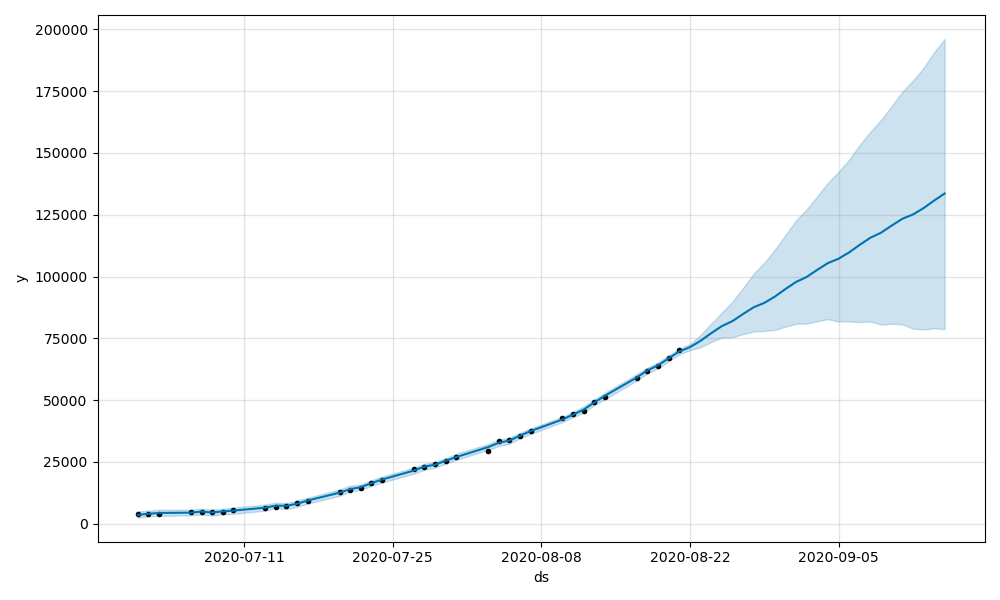
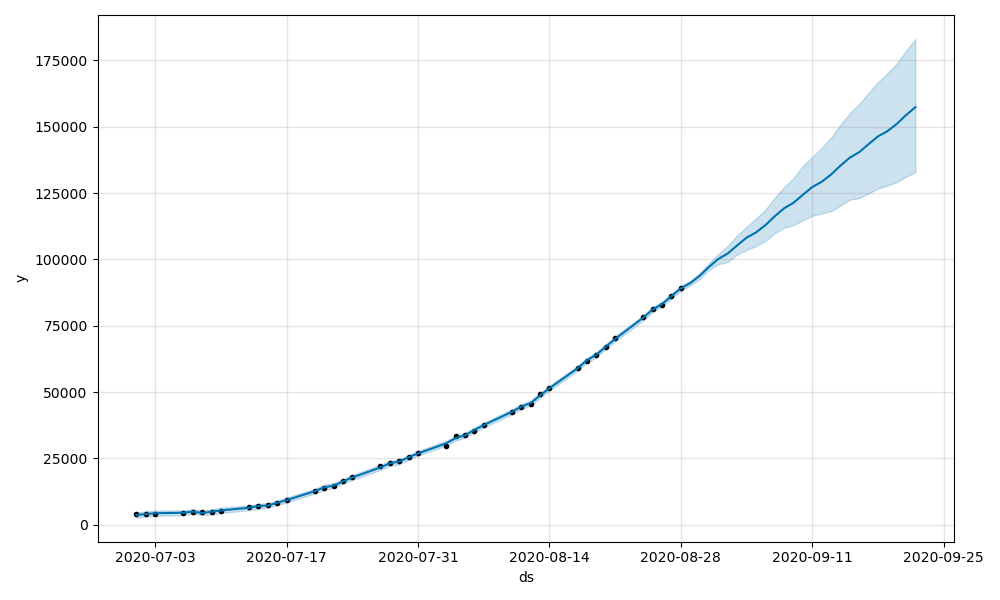
Updated to work with a new data source (only for Spain)

diff --git a/covid19.py b/covid19.py
@@ -10,66 +10,47 @@ import os
 register_matplotlib_converters()
 
 
-def get_data(csv_route, date_label='Date', country_label='Country', confirmed_label='Confirmed',
-             deaths_label='Deaths', recovered_label='Recovered', drop_first=0, drop_last=0, dayfirst=False,
-             sumcolumns=None):
+def get_data(csv_route, date_label='Date', ccaa_label='CCAA', name_maps=None, drop_first=0, drop_last=0,
+             dayfirst=False, sumcolumns=None, ccaa=None, from_date=None, to_date=None):
 
-    """ Get the data from a .csv file. This .csv file must contain a time series with
-        data for each date in one column, and must contain a 'Country' column.
-        Please, refer to https://github.com/datasets/covid-19 for
-        an example of the time series format. Returns a pandas.DataFrame object.
+    """ Get the data from a .csv file. Returns a pandas.DataFrame object.
 
         Parameters:
         - csv_route : (str) Location to the .csv file (can be a local folder or an URL)
         - date_label : (str) Name of the date column in the provided CSV file (Default 'Date')
-        - country_label : (str) Name of the country (or state) column in the provided CSV file (Default 'Country')
-        - confirmed_label : (str) Name of the confirmed cases column in the provided CSV file (Default 'Confirmed')
-        - deaths_label : (str) Name of the deaths column in the provided CSV file (Default 'Deaths')
-        - recovered_label : (str) Name of the recovered column in the provided CSV file (Default ('Recovered')
+        - ccaa_label : (str) Name of the state column in the provided CSV file (Default 'CCAA')
+        - name_maps : (dict) Dictionary to rename the columns (Default None)
         - drop_first : (int) Number of first lines to drop (Default 0)
         - drop_last : (int) Number of last lines to drop (Default 0)
         - dayfirst : (bool) True if date has the day before month (Default False)
         - sumcolumns : (dict) If not None, for each key it takes the columns from a list and adds it (Default None)
+        - ccaa : (str) Keel only one state (Default None)
+        - from_date : (str) Date in %m/%d/%Y format to start
+        - to_date : (str) Date in %m/%d/%Y format to end
         """
 
-    df = pd.read_csv(csv_route, skiprows=drop_first, skipfooter=drop_last, engine='python', encoding='utf-8')  # Read the CSV
+    df = pd.read_csv(csv_route, skiprows=drop_first, skipfooter=drop_last, engine='python', encoding='utf-8')  # CSV
+    df = df.rename({date_label: 'Date', ccaa_label: 'CCAA'}, axis=1)
+
     if sumcolumns:
         for col in sumcolumns:
-            df.loc[df[col].isnull(), col] = df.loc[df[col].isnull(), sumcolumns[col]].max(axis=1)
-    df = df.rename({date_label: 'Date', country_label: 'Country', confirmed_label: 'Confirmed',
-                    deaths_label: 'Deaths', recovered_label: 'Recovered'}, axis=1) # Rename using labels provided
-    df['Date'] = pd.to_datetime(df['Date'], dayfirst=dayfirst)  # Converts date strings to timestamp
-    return df[['Date', 'Country', 'Confirmed', 'Deaths', 'Recovered']]
+            df[col] = df[sumcolumns[col]].apply(lambda x: np.sum(x), axis=1)
 
+    df[df.columns.values[0]] = pd.to_datetime(df[df.columns.values[0]], dayfirst=dayfirst)  # Converts to timestamp
 
-def clean_data(data, country=None, threshold=None, from_date=None):
-
-    """ Select one (or none) country to study, and returns the same DataFrame read from
-        the .csv file, filtered by country, and applying a minimum threshold in order to
-        ignore insignificant values. Returns a pandas.Series object.
-
-        Parameters:
-        - data : (pandas.DataFrame) Output of get_data() method
-        - country: (str) Country to study. Use None for studying global data. (Default None)
-        - threshold: (int) Minimum number of cases to consider (Default 10)"""
-
-    if threshold is None:
-        threshold = [0, 0, 0]
-
-    if country:
-        data = data[data['Country'] == country]  # Filter by country when it's given
+    if ccaa:
+        df = df[df['CCAA'] == df]  # Filter by state when it's given
 
     if from_date:
-        data = data[data['Date'] > pd.to_datetime(from_date, format='%m/%d/%Y')]
+        df = df[df['Date'] >= pd.to_datetime(from_date, format='%m/%d/%Y')]
 
-    data = data.groupby('Date').sum()  # Group by date and sum cases
-    data['Active'] = data['Confirmed'] - data['Deaths'] - data['Recovered']  # Active Cases
+    if to_date:
+        df = df[df['Date'] <= pd.to_datetime(to_date, format='%m/%d/%Y')]
 
-    confirmed = data.loc[data['Confirmed'] >= threshold[0], 'Confirmed'].drop_duplicates()
-    deaths = data.loc[data['Deaths'] >= threshold[1], 'Deaths'].drop_duplicates()
-    active = data.loc[data['Active'] >= threshold[2], 'Active'].drop_duplicates()
-
-    return confirmed, deaths, active
+    if name_maps:
+        df = df.rename(name_maps, axis=1)  # Rename using labels provided
+        return df[['Date'] + list(name_maps.values())].groupby('Date').sum()
+    return df.groupby('Date').sum()
 
 
 def format_axis(ax, values, days_range, tmax=None):
@@ -96,107 +77,6 @@ def format_axis(ax, values, days_range, tmax=None):
     ax.set_xticks(days_ticks[::days_range])  # Define the matplotlib xticks
     ax.set_xticklabels(days_labels[::days_range])  # Define the matplotlib xlabels
     return ax
-
-
-def compare(data, countries, filename='figures\\compare.png', threshold=None, scale=1000):
-
-    """ Given a list of countries, compares their number of cases setting them to the
-        same origin. Returns a matplotlib.figure.Figure object.
-
-        Parameters:
-        - data : (pandas.DataFrame) Output of get_data() method
-        - countries : (list) List of strings containing the countries to compare
-        - filename : (str) Location and filename to save the plot (Default 'figures\\compare.png')
-        - threshold : (int) Minimum number of cases to consider for setting the origin (Default 100)
-        - scale :  (int) Scale for the y-axis (Default 1000)"""
-
-    if threshold is None:
-        threshold = [100, 10, 100]
-
-    values = [clean_data(data, i, threshold) for i in countries]  # Get all values for each country
-
-    fig, (ax1, ax2) = plt.subplots(figsize=(12, 4), ncols=2)  # Creates the Figure
-
-    for i in range(len(values)):
-        ax1.plot(values[i][0].values / scale, label=countries[i], marker='x')  # Confirmed Cases
-        ax2.plot(values[i][1].values, label=countries[i], marker='x')  # Deaths
-
-    ax1.legend().get_frame().set_alpha(0.5)  # Style the legend
-    ax2.legend().get_frame().set_alpha(0.5)
-
-    ax1.grid(b=True, which='major', c='k', lw=0.25, ls='-')  # Style the grid
-    ax2.grid(b=True, which='major', c='k', lw=0.25, ls='-')
-
-    ax1.set_xlabel('Days')  # Set the x-axis label
-    ax2.set_xlabel('Days')
-
-    ax1.set_ylabel('Confirmed (' + str(scale) + ')')  # Set the y-axis label
-    ax2.set_ylabel('Deaths')
-
-    ax1.yaxis.set_tick_params(length=0)  # Style the y-axis labels
-    ax2.yaxis.set_tick_params(length=0)
-
-    ax1.xaxis.set_tick_params(length=0)  # Style the x-axis labels
-    ax2.xaxis.set_tick_params(length=0)
-
-    for spine in ('top', 'right', 'bottom', 'left'):
-        ax1.spines[spine].set_visible(False)  # Style the figure box
-        ax2.spines[spine].set_visible(False)
-
-    plt.tight_layout()
-    fig.savefig(filename)  # Save the figure into the route
-    return values
-
-
-def daily_increases(data, country, filename='figures\\daily.png', threshold=None, scale=None):
-
-    """ Given a list of countries, plots the daily confirmed/deaths with respect to the previous day.
-
-        Parameters:
-        - data : (pandas.DataFrame) Output of get_data() method
-        - countries : (list) List of strings containing the countries to compare
-        - filename : (str) Location and filename to save the plot (Default 'figures\\compare.png')
-        - scale :  (list) Scale for the y-axis for confirmed and deaths (Default None)"""
-
-    if scale is None:
-        scale = [1000, 1]
-
-    confirmed, deaths, _ = clean_data(data, country, threshold)  # Clean the data
-    confirmed = confirmed - confirmed.shift(1) # Calculate the increases
-    deaths = deaths  -deaths.shift(1)
-
-    fig, (ax1, ax2) = plt.subplots(figsize=(12, 4), ncols=2)  # Creates the Figure
-
-    ax1.bar(range(len(confirmed)), confirmed.values / scale[0])  # Confirmed Cases
-    ax2.bar(range(len(deaths)), deaths.values / scale[1])  # Deaths
-
-    print()
-
-    ax1.grid(b=True, which='major', c='k', lw=0.25, ls='-')  # Style the grid
-    ax2.grid(b=True, which='major', c='k', lw=0.25, ls='-')
-
-    ax1.set_xlabel('Date')  # Set the x-axis label
-    ax2.set_xlabel('Date')
-
-    ax1.set_ylabel('Confirmed (' + str(scale[0]) + ')')  # Set the y-axis label
-    ax2.set_ylabel('Deaths (' + str(scale[1]) + ')')
-
-    ax1.yaxis.set_tick_params(length=0)  # Style the y-axis labels
-    ax2.yaxis.set_tick_params(length=0)
-
-    ax1.xaxis.set_tick_params(length=0)  # Style the x-axis labels
-    ax2.xaxis.set_tick_params(length=0)
-
-    ax1 = format_axis(ax1, confirmed, 7)
-    ax2 = format_axis(ax2, confirmed, 7)
-
-    for spine in ('top', 'right', 'bottom', 'left'):
-        ax1.spines[spine].set_visible(False)  # Style the figure box
-        ax2.spines[spine].set_visible(False)
-
-    plt.tight_layout()
-    fig.savefig(filename)  # Save the figure into the route
-    return confirmed, deaths
 
 
 def fit(values, model, lbounds, gbounds, guess=None, route='figures\\', title='Model',
@@ -283,15 +163,14 @@ class suppress_stdout_stderr(object):
         os.close(self.null_fds[1])
 
 
-def predict(y, filename='sample.csv', periods=25):
+def predict(y, filename='sample.csv'):
 
     """Predict the shape of a curve given a .csv file with a column named "date" for the time series and another
        column "y", which is the feature to predict.
 
            Parameters:
            - filename : (str) Name of the .csv file containing the time series
-           - y : (str) Feature to predict
-           - periods : (int) periods parameter for Prophet.make_future_dataframe() function"""
+           - y : (str) Feature to predict"""
 
     file = pd.read_csv(filename)
     file['Date'] = pd.to_datetime(file['Date'])
@@ -300,10 +179,10 @@ def predict(y, filename='sample.csv', periods=25):
     df['y'] = file[y]
     file = file[['Date', y]].rename({y: 'Real'}, axis=1)
 
-    model = Prophet(yearly_seasonality=False, n_changepoints=8, daily_seasonality=True, interval_width=0.999)
+    model = Prophet(yearly_seasonality=False, n_changepoints=50, daily_seasonality=True, interval_width=0.999)
     with suppress_stdout_stderr():
         model.fit(df)
-    future = model.make_future_dataframe(periods=25)
+    future = model.make_future_dataframe(periods=7)
     forecast = model.predict(future)
     fig = model.plot(forecast)
     fig.savefig('figures\\prophet_' + y.lower() + '.png')

diff --git a/tests.py b/tests.py
@@ -1,24 +1,40 @@
 import covid19
+import pandas as pd
 import numpy as np
 from models import sir_model, logistic_model
 
 
 def full_test():
-    data = covid19.get_data('https://covid19.isciii.es/resources/serie_historica_acumulados.csv', drop_last=6,
-                            date_label='FECHA', country_label='CCAA', confirmed_label='CASOS',
-                            deaths_label='Fallecidos', recovered_label='Recuperados', dayfirst=True,
-                            sumcolumns={'CASOS': ['PCR+', 'TestAc+']})
-    confirmed, deaths, active = covid19.clean_data(data, None, threshold=[1000, 1, 1000])
-    print('Last Update: ', confirmed.index.max())
-    covid19.daily_increases(data, None)
-    covid19.compare(data, data['Country'].drop_duplicates(), 'figures\\compare.png')
-    covid19.fit(active, sir_model, [0, 0, 1, 0, -np.inf], [np.inf, np.inf, np.inf, np.inf, np.inf],
-                [1, 1, 50, 1E8, 0], title='SIR Model', tmax=70, days_range=20)
-    covid19.fit(confirmed, logistic_model, [0, 0, 0], [np.inf, np.inf, np.inf], [1, 1, 1],
-                title='Logistic Model Confirmed', tmax=70, days_range=20)
-    covid19.fit(deaths, logistic_model, [-np.inf, -np.inf, -np.inf], [np.inf, np.inf, np.inf], [1, 1, 1],
-                title='Logistic Model Deaths', tmax=70, scale=1, days_range=20)
+    github = 'https://raw.githubusercontent.com/montera34/escovid19data/master/data/output/covid19-provincias' \
+             '-spain_consolidated.csv '
+
+    data = covid19.get_data(github, date_label='date', ccaa_label='ccaa', drop_first=0, drop_last=0, dayfirst=True,
+                            ccaa=None, from_date='07/01/2020', to_date='08/23/2020',
+                            name_maps={'casos': 'Casos', 'hospitalized': 'Ingresados', 'intensive_care': 'UCI',
+                                       'deceased': 'Muertos'},
+                            sumcolumns={'casos': ['num_casos', 'num_casos_prueba_pcr', 'num_casos_prueba_test_ac',
+                                                  'num_casos_prueba_otras', 'num_casos_prueba_desconocida']})
+
+    covid19.fit(data['UCI'], logistic_model, [0, 0, 0, 0], [np.inf, np.inf, np.inf, np.inf], [100, 100, 1, 1],
+                title='Logistic UCI', tmax=100, days_range=14)
+
+    covid19.fit(data['Muertos'], logistic_model, [0, 0, 0, 0], [np.inf, np.inf, np.inf, np.inf], [100, 100, 1, 1],
+                title='Logistic Deaths', tmax=100, days_range=14)
+
+    covid19.fit(data['Casos'], logistic_model, [0, 0, 0, 0], [np.inf, np.inf, np.inf, np.inf], [100, 100, 1, 1],
+                title='Logistic Cases', tmax=100, days_range=14)
+
+    sample = pd.read_csv('sample.csv')
+    sample['Date'] = pd.to_datetime(sample['Date'])
+    sample = sample.set_index('Date')
+
+    covid19.fit(sample['IA'], logistic_model, [0, 0, 0, 0], [np.inf, np.inf, np.inf, np.inf], [100, 100, 1, 1],
+                title='Logistic IA', tmax=100, days_range=14, scale=1)
+
+    covid19.fit(sample['U14D'], logistic_model, [0, 0, 0, 0], [np.inf, np.inf, np.inf, np.inf], [100, 100, 1, 1],
+                title='Logistic U14D', tmax=100, days_range=14)
 
 
+full_test()
 print(covid19.predict('IA'))
 print(covid19.predict('U14D'))

diff --git a/models.py b/models.py
@@ -1,46 +1,4 @@
 import numpy as np
-from scipy import interpolate, integrate
-
-
-def sir_model(x, initial_infected, beta, gamma, population, t0, initial_recovered=0, tmax=365, n=1000):
-
-    """"Uses SIR Model (https://en.wikipedia.org/wiki/Compartmental_models_in_epidemiology#The_SIR_model)
-        to return the value of the Infected Curve at time x, given the SIR Model parameters.
-
-        Parameters:
-        - x : (float) Time to evaluate the infected curve
-        - initial_infected : (float) SIR Model I0 parameter. Initial infected subjects
-        - beta : (float) Transmission rate
-        - gamma : (float) Typical time between contacts
-        - population : (float) Susceptible population
-        - t0 : (float) Initial time to fix origin
-        - initial_recovered : (float) Initial recovered individuals (Default 0)
-        - tmax : (float) Time for integrating the differential equations, in days (Default 365)
-        - n : (int) Number of time points for integrating the differential equations (Default 1000)"""
-
-    gamma = 1 / gamma
-    initial_susceptible = population - initial_infected - initial_recovered  # Everyone who is susceptible to infection
-    t = np.linspace(t0, tmax, n)  # Time vector for integrating
-
-    def derivatives(y, _):
-
-        """SIR Model Differential Equations
-
-            Parameters:
-            - y : (np.ndarray) Array containing [Susceptible, Infected, Recovered] points
-            - _ : (None) Empty parameter for consistency with scipy.integrate.odeint method"""
-
-        s, i, _ = y
-        derivative_a = -beta * s * i / population  # dS/dt
-        derivative_b = beta * s * i / population - gamma * i  # dI/dt
-        derivative_c = gamma * i  # dR / dt
-        return derivative_a, derivative_b, derivative_c
-
-    y0 = initial_susceptible, initial_infected, initial_recovered  # Initial conditions vector
-    sol = integrate.odeint(derivatives, y0, t)  # Integrate the SIR equations over the time grid, total_time
-    infected = sol[:, 1]  # Infected individuals for each day
-    interp = interpolate.interp1d(t, infected, fill_value='extrapolate')  # Creates an interpolator with the vectors
-    return interp(x)
 
 
 def logistic_model(x, a, b, c, d):

diff --git a/README.md b/README.md
@@ -1,25 +1,12 @@
-# Fit Data COVID-19
+# Fit Data COVID-19 (Spain)
 
-Fit updated data for COVID-19 (https://github.com/datasets/covid-19) to different models, 
-or compare cases between countries.
+Fit the official data for Spain (https://github.com/montera34/escovid19data) to logistic or exponential models, and also use Prophet (https://facebook.github.io/prophet/) to predict the evolution of the data using Time Series.
 
-In this particular case, for Spain, the SIR Model gives the following figure:
+Manual data can be provided in order to clean some messy official data. For instance, one can add the accumulated incidence (IA) manually:
 
-![](figures/sir_model.png  "SIR Model")
+![](figures/logistic_ia.png "IA")
 
-Fitting the logistic model to new dates we get the following:
-
-![](figures/logistic_model_confirmed.png "Logistic Model" )
-
-Daily new cases and deaths for Spain:
-
-![](figures/daily.png "Daily Cases")
-
-Different confirmed cases for all the counties in Spain:
-
-![](figures/compare.png "Compare Countries")
-
-Simple prediction using Facebook Prophet's Time Series:
+This same Time Series can be predicted using Prophet:
  
 ![](figures/prophet_ia.png "IA")
 
